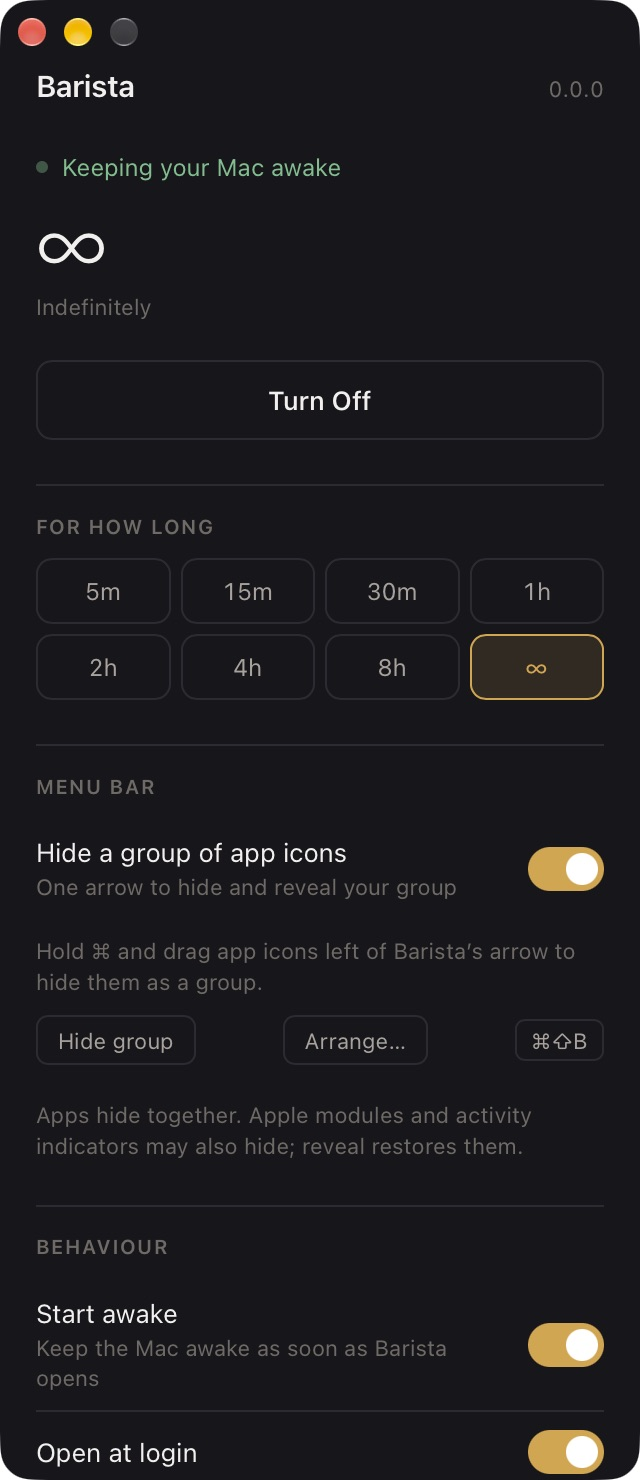
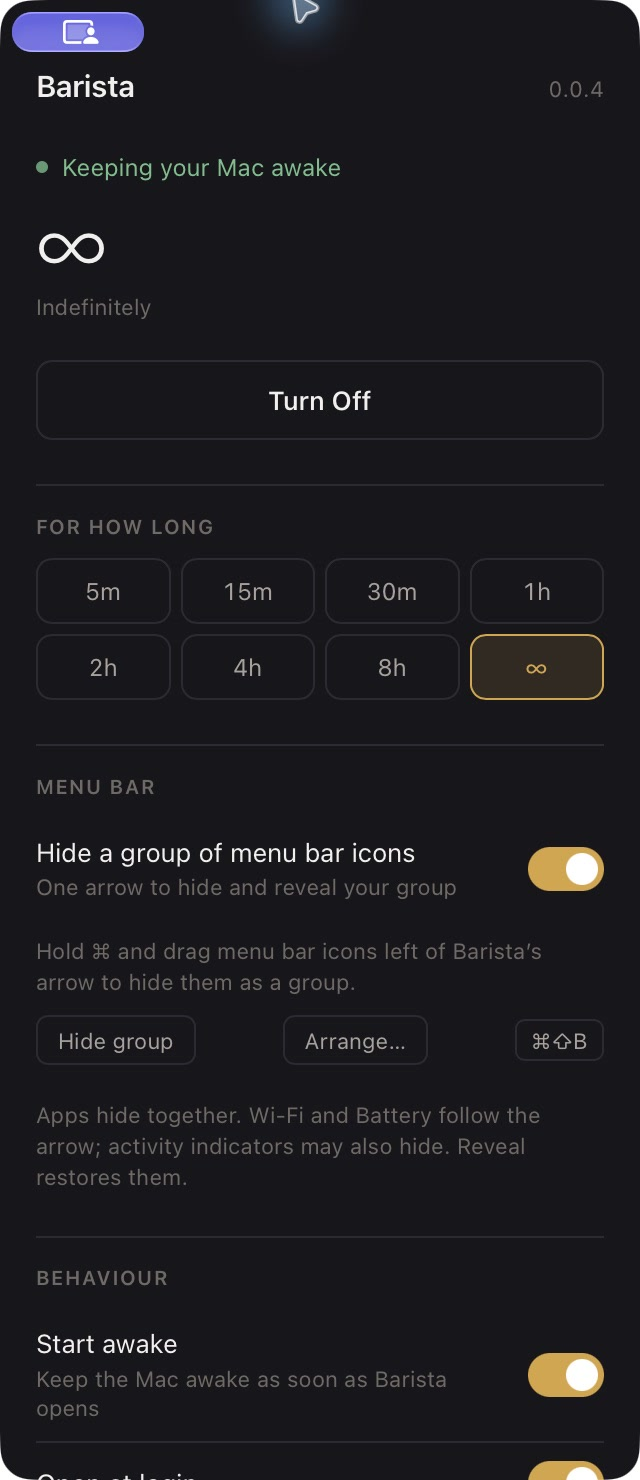
docs: showcase the released native app and verified updater

diff --git a/scripts/generate-demo.ts b/scripts/generate-demo.ts
@@ -13,11 +13,17 @@ interface Demo {
   scenes: Scene[]
   /** Crop after scaling the native screenshot to 350px wide. */
   panelHeight: number
+  /** Omit the native titlebar chrome from the presentation, retaining the raw capture. */
+  panelTop?: number
 }
 const root = resolve(import.meta.dir, '..')
 const manifest = resolve(process.argv[2] || join(root, '.github/art/demo/scenes.json'))
 const output = resolve(process.argv[3] || join(root, '.github/art/barista.gif'))
 const demo = JSON.parse(await readFile(manifest, 'utf8')) as Demo
+const canvasHeight = demo.panelHeight + 80
+const panelTop = demo.panelTop ?? 0
+if (!Number.isSafeInteger(panelTop) || panelTop < 0)
+  throw new Error('Expected a nonnegative native panel crop offset')
 const ffmpeg = Bun.which('ffmpeg')
 if (!ffmpeg) throw new Error('Install FFmpeg through Pantry before generating the demo')
 const font = '/System/Library/Fonts/Helvetica.ttc'
@@ -45,12 +51,12 @@ try {
     const clip = join(dir, `${index}.mkv`)
     const filters = [
       // Mask the captured desktop outside the native window's top corners.
-      `[0:v]scale=350:-1:flags=lanczos,crop=iw:min(ih\\,${demo.panelHeight}):0:0,format=rgba,geq=r='r(X,Y)':g='g(X,Y)':b='b(X,Y)':a='if(lt(Y,18)*lt(X,18),if(lte(hypot(X-18,Y-18),18),255,0),if(lt(Y,18)*gt(X,W-19),if(lte(hypot(X-W+19,Y-18),18),255,0),255))'[panel]`,
+      `[0:v]scale=350:-1:flags=lanczos,crop=iw:min(ih-${panelTop}\\,${demo.panelHeight}):0:${panelTop},format=rgba,geq=r='r(X,Y)':g='g(X,Y)':b='b(X,Y)':a='if(lt(Y,18)*lt(X,18),if(lte(hypot(X-18,Y-18),18),255,0),if(lt(Y,18)*gt(X,W-19),if(lte(hypot(X-W+19,Y-18),18),255,0),255))'[panel]`,
       `[1:v]scale=42:42[icon]`,
       `[2:v][icon]overlay=58:44[brand]`,
-      `[brand][panel]overlay=600:40:shortest=1,drawbox=x=600:y=40:w=350:h=${demo.panelHeight}:color=0x453f4a:t=1,drawtext=fontfile='${filterPath(font)}':text='Barista':fontsize=22:fontcolor=0xf2f0ee:x=112:y=52,${text(0, 50, 174, '0xf2f0ee')},${text(1, 22, 330, '0xd9a441')},${text(2, 17, 395, '0xa8a29b')},${text(3, 13, 670, '0x6f6a64')},drawtext=fontfile='${filterPath(font)}':text='Built with stx + Craft':fontsize=13:fontcolor=0x6f6a64:x=58:y=700[out]`,
+      `[brand][panel]overlay=600:40:shortest=1,drawbox=x=600:y=40:w=350:h=${demo.panelHeight}:color=0x453f4a:t=1,drawtext=fontfile='${filterPath(font)}':text='Barista':fontsize=22:fontcolor=0xf2f0ee:x=112:y=52,${text(0, 50, 174, '0xf2f0ee')},${text(1, 22, 330, '0xd9a441')},${text(2, 17, 395, '0xa8a29b')},${text(3, 13, canvasHeight - 70, '0x6f6a64')},drawtext=fontfile='${filterPath(font)}':text='Built with stx + Craft':fontsize=13:fontcolor=0x6f6a64:x=58:y=${canvasHeight - 40}[out]`,
     ].join(';')
-    run(['-loop', '1', '-i', resolve(dirname(manifest), scene.image), '-loop', '1', '-i', join(root, 'src/assets/icon_512@2x.png'), '-f', 'lavfi', '-i', `color=c=0x17161a:s=1000x740:r=10:d=${seconds}`, '-filter_complex', filters, '-map', '[out]', '-t', String(seconds), '-c:v', 'ffv1', clip])
+    run(['-loop', '1', '-i', resolve(dirname(manifest), scene.image), '-loop', '1', '-i', join(root, 'src/assets/icon_512@2x.png'), '-f', 'lavfi', '-i', `color=c=0x17161a:s=1000x${canvasHeight}:r=10:d=${seconds}`, '-filter_complex', filters, '-map', '[out]', '-t', String(seconds), '-c:v', 'ffv1', clip])
     clips.push(clip)
   }
   const list = join(dir, 'clips.txt')

diff --git a/README.md b/README.md
@@ -1,4 +1,4 @@
-<p align="center"><img src=".github/art/barista.gif" alt="Barista keep-awake and menu bar grouping demo" width="100%"></p>
+<p align="center"><img src=".github/art/barista.gif" alt="Barista native keep-awake, menu bar grouping and update demo" width="100%"></p>
 
 [![GitHub Actions][github-actions-src]][github-actions-href]
 [![macOS](https://img.shields.io/badge/platform-macOS-lightgrey.svg)](https://img.shields.io/badge/platform-macOS-lightgrey.svg)
